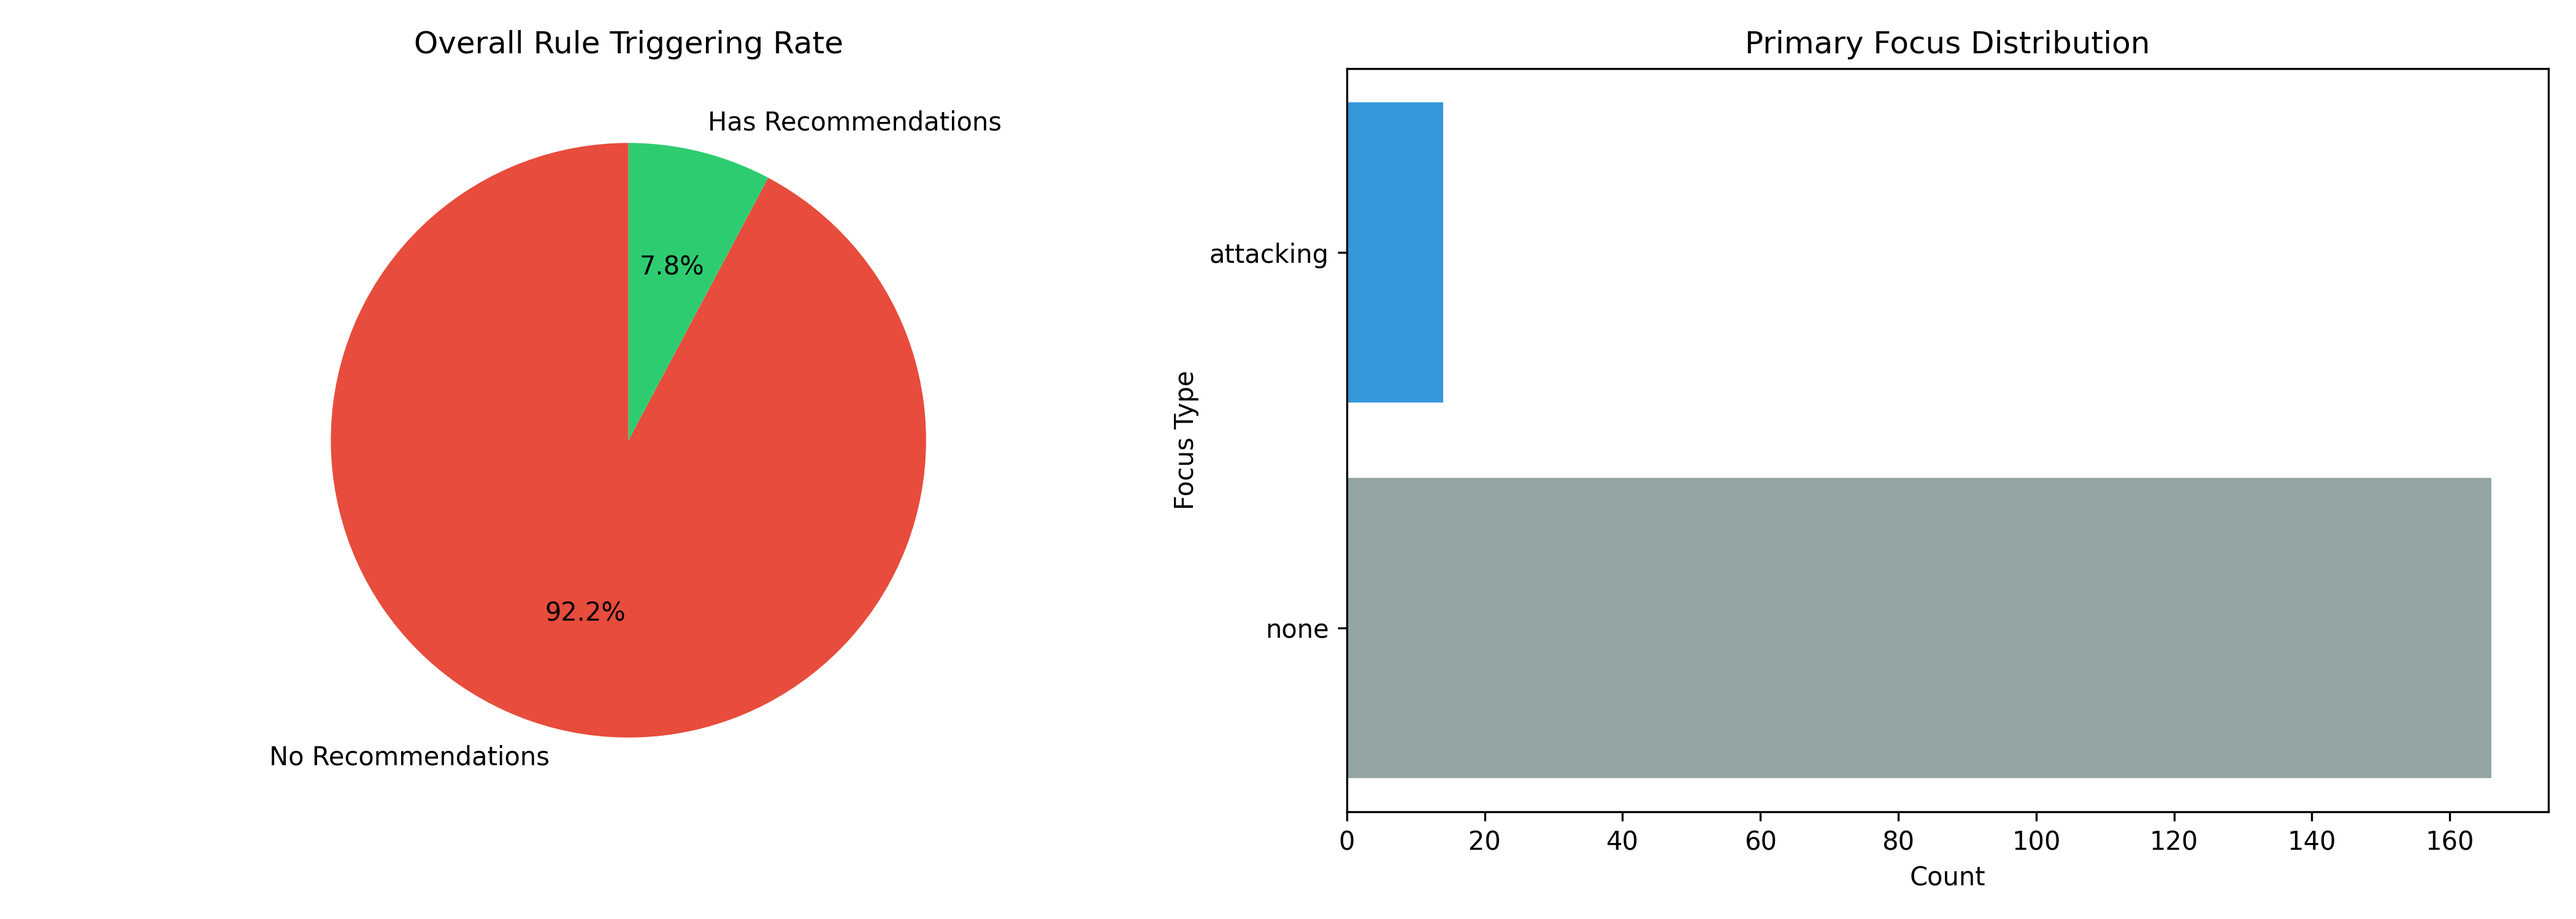
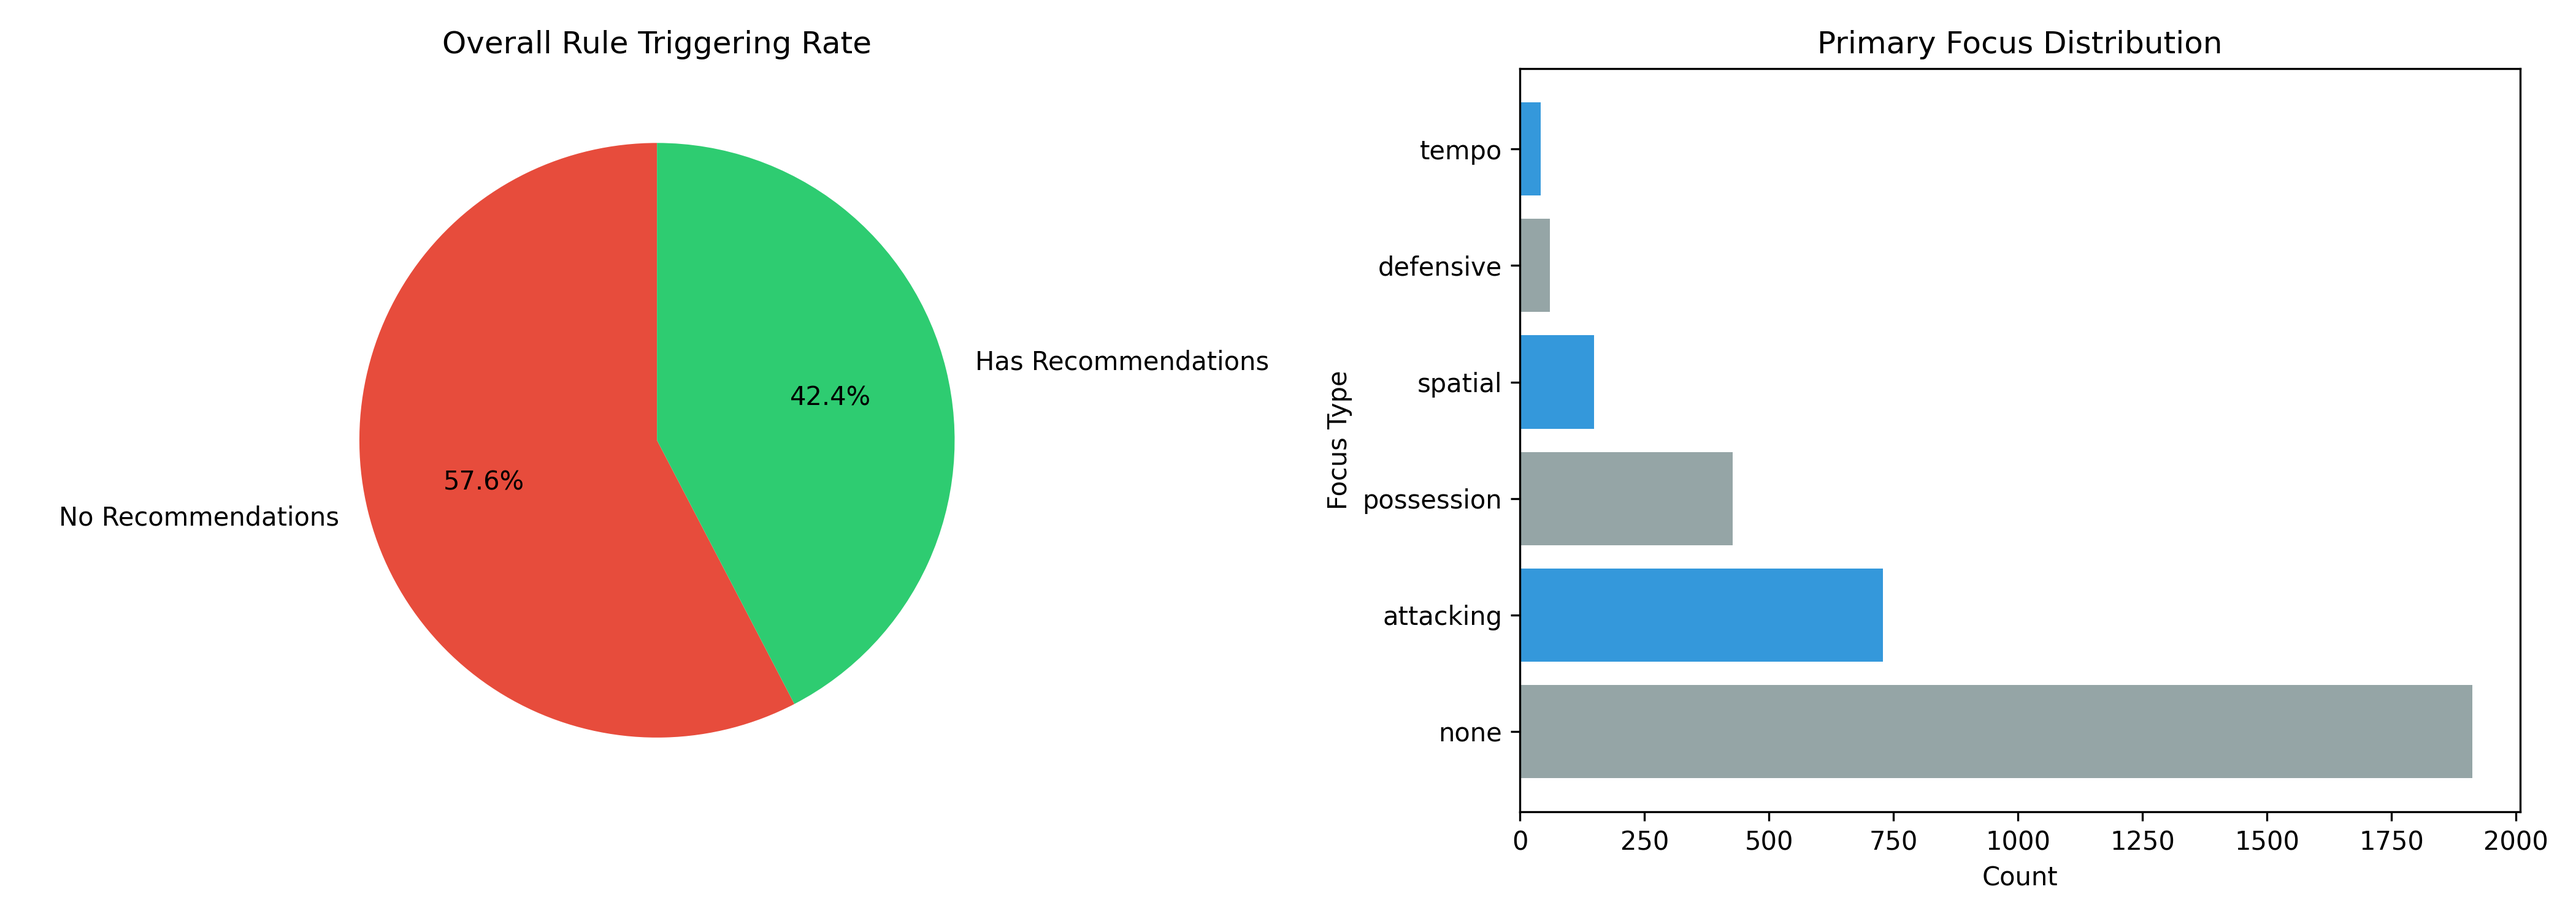
rq2 results

diff --git a/tactical_analysis_system/main_analysis.py b/tactical_analysis_system/main_analysis.py
@@ -1,5 +1,6 @@
 import json
 import pandas as pd
+import numpy as np
 from typing import Dict, List, Tuple, Any, Optional
 from pathlib import Path
 from .data_loader import DataLoader
@@ -276,7 +277,31 @@ class MainAnalysis:
 
         return rq2_results
 
-
+    def _generate_match_recommendations(self, recommender) -> list:
+        """Generate recommendations for each match"""
+        
+        # Get unique matches from the dataset
+        if 'match_id' in self.results['network_metrics'].columns:
+            unique_matches = self.results['network_metrics']['match_id'].unique()
+            
+            match_recommendations = []
+            
+            for match_id in unique_matches:
+                print(f"   Analyzing match: {match_id}")
+                
+                match_data = self.results['network_metrics'][
+                    self.results['network_metrics']['match_id'] == match_id
+                ]
+                
+                match_analysis = recommender.analyze_match_recommendations(
+                    match_data, str(match_id)
+                )
+                
+                match_recommendations.append(match_analysis)
+            
+            return match_recommendations
+        
+        return []
     def _calculate_rq2_metrics(self, recommender, match_recommendations: list) -> dict:
         """
         Calculate comprehensive RQ2 metrics as specified in thesis report.

diff --git a/tactical_analysis_system/run_rq2.py b/tactical_analysis_system/run_rq2.py
@@ -3,6 +3,9 @@ from tactical_analysis_system.data_loader import DataLoader
 import pandas as pd
 import os
 import matplotlib.pyplot as plt
+import matplotlib
+matplotlib.use("Agg")    # headless backend
+plt.close('all')
 import seaborn as sns
 import numpy as np
 
@@ -210,12 +213,15 @@ def plot_match_level_summary(flat_recs, output_dir="results/plots/rq2"):
     plt.close()
 
 if __name__ == "__main__":
-    window_size = 10
     data_file = "statsbomb_data_interim_100.json"
-    analysis = MainAnalysis(use_saved_data=True, data_file=data_file, window_size=window_size)
+    window_size = 10
+    step_size = 5
+    print(f"\n=== Running analysis for window size: {window_size} minutes ===")
+    analysis = MainAnalysis(use_saved_data=True, data_file=data_file, 
+                            window_size=window_size, step_size=step_size)
 
     print("1. Running RQ1 Analysis")
-    rq1_results = analysis.run_rq1_analysis(max_matches=10, save_results=True, filepath=data_file)
+    rq1_results = analysis.run_rq1_analysis(max_matches=100, save_results=True, filepath=data_file)
     print("RQ1 Done")
 
     print("\n2. Running RQ2 Analysis")

diff --git a/tactical_analysis_system/network_analyzer.py b/tactical_analysis_system/network_analyzer.py
@@ -178,7 +178,7 @@ class NetworkAnalyzer:
         try:
             eigenvector = nx.eigenvector_centrality(G_inverted, weight='weight', max_iter=1000)
         except nx.PowerIterationFailedConvergence as e:
-            logger.warning(f"Eigenvector centrality failed to converge: {e}. Using zeros.")
+            #logger.warning(f"Eigenvector centrality failed to converge: {e}. Using zeros.")
             eigenvector = {node: 0 for node in G.nodes()}
         except Exception as e:
             logger.error(f"Unexpected error in eigenvector centrality: {e}. Using zeros.")

diff --git a/tactical_analysis_system/run_rq1.py b/tactical_analysis_system/run_rq1.py
@@ -231,8 +231,11 @@ if __name__ == "__main__":
     import pandas as pd
     
     window_size = 10
-    data_file = "statsbomb_data_interim_100.json"
-    analysis = MainAnalysis(use_saved_data=True, data_file=data_file, window_size=window_size)
+    step_size = 5
+    analysis = MainAnalysis(use_saved_data=True, data_file=data_file, 
+                            window_size=window_size, step_size=step_size)
+
+    
 
     print("Running RQ1 Analysis...")
     rq1_results = analysis.run_rq1_analysis(max_matches=100, save_results=True, filepath=data_file)

diff --git a/tactical_analysis_system/run_rq3.py b/tactical_analysis_system/run_rq3.py
@@ -171,7 +171,7 @@ if __name__ == "__main__":
         
         # Run analyses and create visualizations for each RQ
         print("\n1. Running RQ1 Analysis...")
-        rq1_results = analysis.run_rq1_analysis(max_matches=100, save_results=True, filepath=data_file)
+        rq1_results = analysis.run_rq1_analysis(max_matches=80, save_results=True, filepath=data_file)
 
         print("\n2. Running RQ2 Analysis...")
         rq2_results = analysis.run_rq2_analysis(save_results=True)
